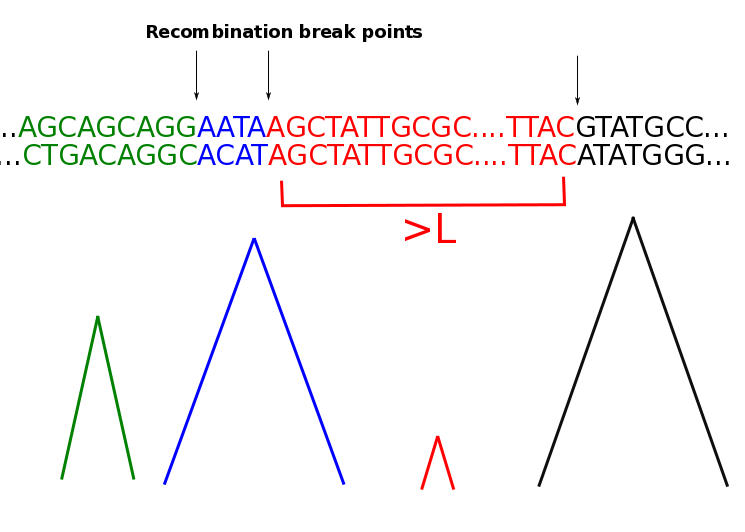
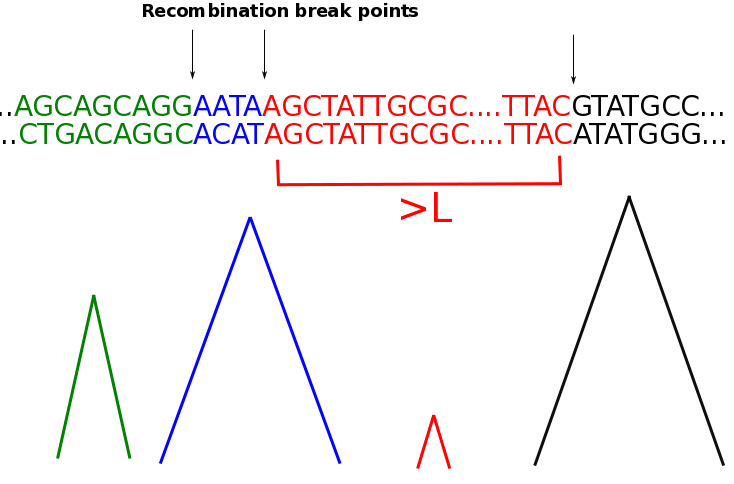
updated front page

diff --git a/README.md b/README.md
@@ -7,8 +7,11 @@ This in an internal repo.
 
 Long streches of sequence similarity are indicative of recent ancestry. Using coalescent theory, we model the number of these streches between individuals across space and infer a population size surface and migration surface.
 
+
+*Long segments (greater than L) of similarity are indicative of short coalescent times*:
+
 ![seqoutline](imagerepo/seqoutline.png)
 
 ## A more detailed summary
-![detailedSummary1](imagerepo/detailedSummary.png)
+![detailedSummary1](imagerepo/detailedSummary1.png)
 ![detailedSummary2](imagerepo/detailedSummary2.png)
